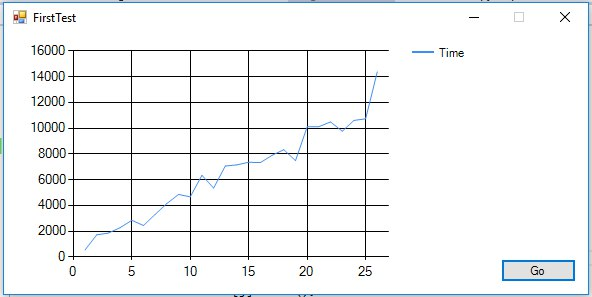
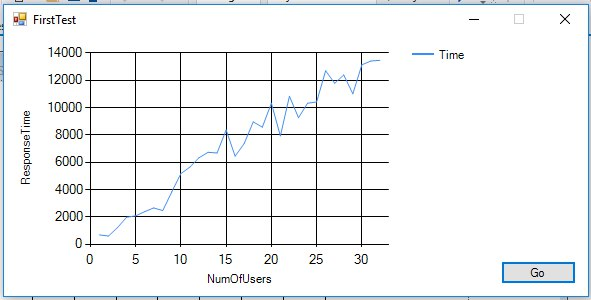
new pic

Changed region(s): [[0.0, 0.0, 1.0, 1.0], [0.7005, 0.1515, 0.7919, 0.2121], [0.7919, 0.0606, 0.8223, 0.0909]]

diff --git a/HW_Test/FirstTest/FirstTest/Form.cs b/HW_Test/FirstTest/FirstTest/Form.cs
@@ -27,14 +27,6 @@ namespace FirstTest
 
         private void DrawIt()
         {
-            int maxh = 0;
-            for (int i = 0; i < listOfPoints.Count; i++)
-            {
-                if (listOfPoints[i].Y > maxh)
-                {
-                    maxh = listOfPoints[i].Y;
-                }
-            }
             for (int i = 0; i < listOfPoints.Count; i++)
             {
                 this.Graph.Series["Time"].Points.AddXY(listOfPoints[i].X, listOfPoints[i].Y);

diff --git a/HW_Test/FirstTest/FirstTest/Form.Designer.cs b/HW_Test/FirstTest/FirstTest/Form.Designer.cs
@@ -48,6 +48,8 @@
             // 
             // Graph
             // 
+            chartArea1.AxisX.Title = "NumOfUsers";
+            chartArea1.AxisY.Title = "ResponseTime";
             chartArea1.Name = "ChartArea1";
             this.Graph.ChartAreas.Add(chartArea1);
             legend1.Name = "Legend1";

diff --git a/HW_Test/TestSecond/TestSecond/Form.Designer.cs b/HW_Test/TestSecond/TestSecond/Form.Designer.cs
@@ -49,6 +49,8 @@
             // 
             // Graph
             // 
+            chartArea1.AxisX.Title = "SizeOfPic";
+            chartArea1.AxisY.Title = "ResponseTime";
             chartArea1.Name = "ChartArea1";
             this.Graph.ChartAreas.Add(chartArea1);
             legend1.Name = "Time";

diff --git a/HW_Test/TestSecond/TestSecond/Program.cs b/HW_Test/TestSecond/TestSecond/Program.cs
@@ -38,7 +38,7 @@ namespace TestSecond
             {
                 Time.Add(0);
             }
-            for (int i = 1; i < 8; i++)
+            for (int i = 1; i < 10; i++)
             {
                 picH += 100;
                 picW += 100;
